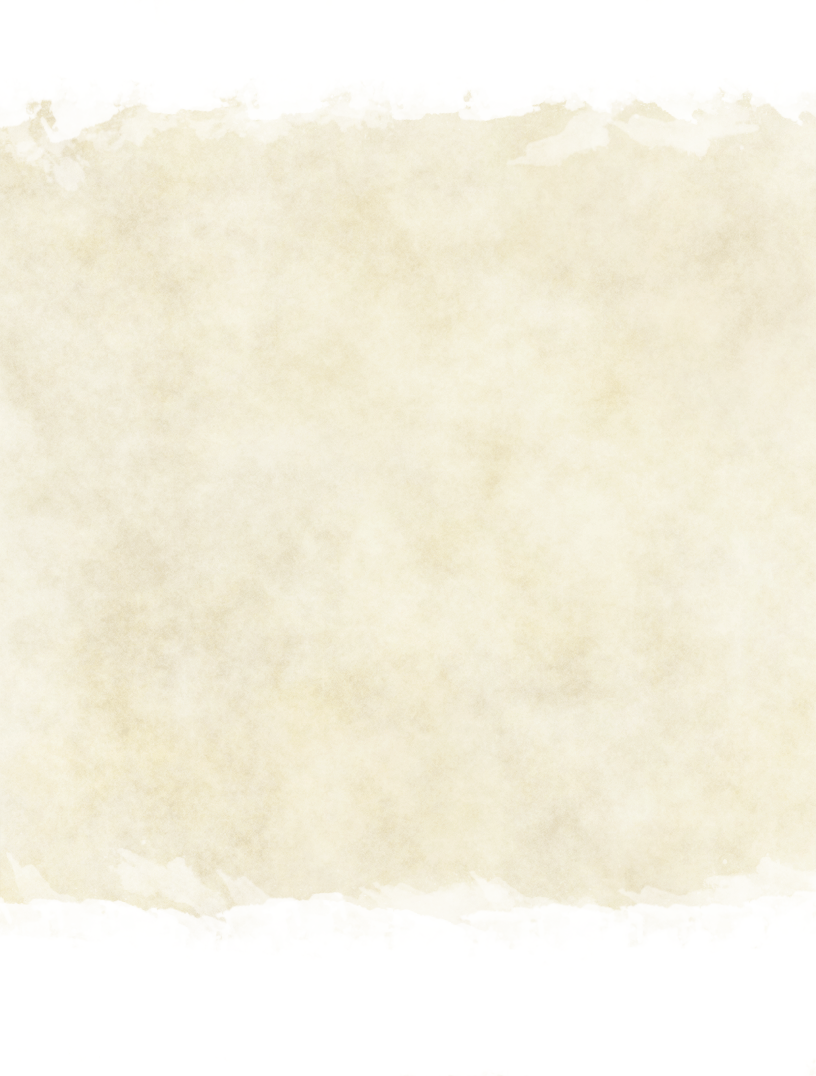
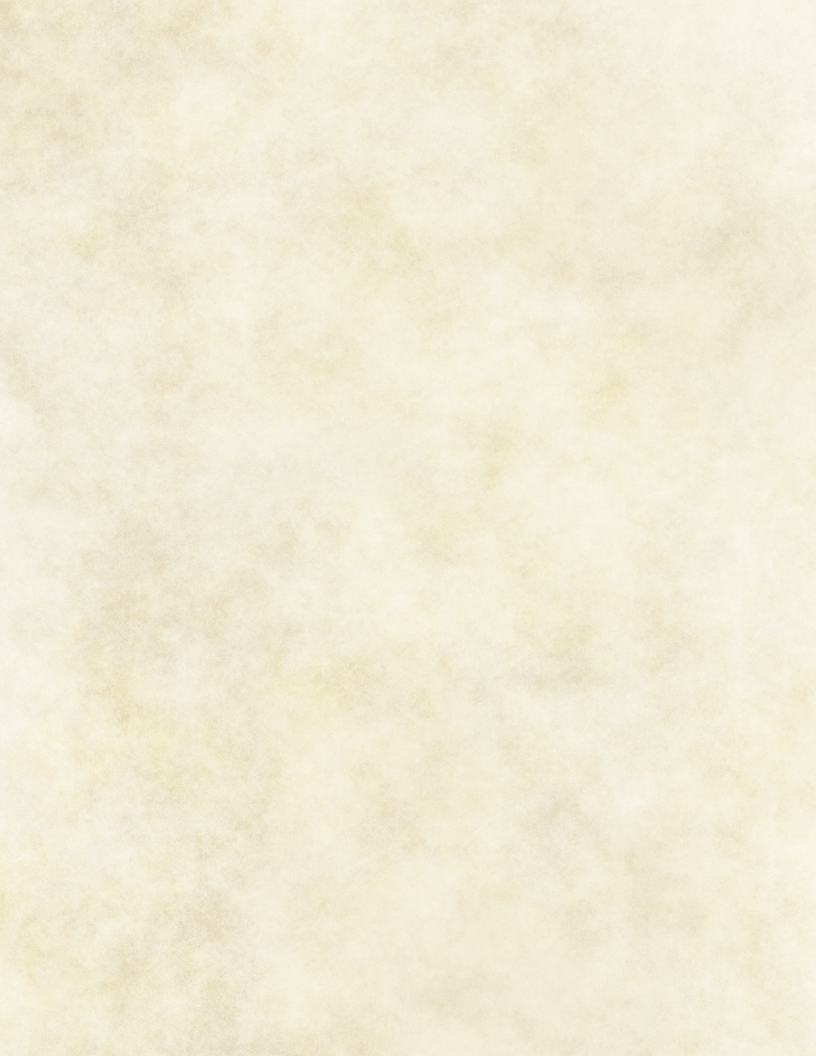
nearly done

Changed region(s): [[0.0, 0.8125, 1.0, 1.0], [0.0, 0.0, 1.0, 0.1562]]

diff --git a/index.js b/index.js
@@ -1,7 +1,5 @@
 document.addEventListener("DOMContentLoaded",doAll)
 
-let showsClass = false
-
 function doAll(){  //initializes once the DOM is loaded
     getClasses()
 }
@@ -22,15 +20,18 @@ function makeButtons(classes){
         const button = document.createElement("button")
         button.innerText = data.index
         button.className = "character-button"
-        button.addEventListener("click", (e) => fillClassPage(e.target.innerText))
+        button.addEventListener("mouseover", (e) => e.target.style.backgroundColor = "gold")
+        button.addEventListener("mouseout", (e) => e.target.style.backgroundColor = "rgb(194, 175, 135)")
+        button.addEventListener("click", (e) => fillClassPage(e.target.innerText.toLowerCase()))
         document.getElementById("buttons").appendChild(button)
     })})
 }
 
 
 function fillClassPage(elem){ //elem is the innertext of the button that is clicked which is the class
-    if (showsClass === true){ //had to make a variable that equals false by default so that when this tries to remove something it doesn't error
-        document.querySelectorAll("h3").forEach(elem => elem.remove())
+    let parent = document.getElementById("level-list")
+    while (parent.firstChild) {
+        parent.removeChild(parent.firstChild);
     }
     fetch(`https://www.dnd5eapi.co/api/classes/${elem}/levels`) //gets the full class levels
     .then(resp => resp.json())
@@ -43,22 +44,19 @@ function fillClassPage(elem){ //elem is the innertext of the button that is clic
             fetch(`https://www.dnd5eapi.co${feature.url}`)//each feature has their own api addresses
             .then(resp => resp.json())
             .then(function(data){ //creates each ability name and information
-            p1 = document.createElement("p")
+            p1 = document.createElement("h5")
             p1.innerText = data.name
             p1.className = "ability-name"
             p2 = document.createElement("p") 
             p2.innerText = data.desc
             p2.className = "ability-details"
             p1.appendChild(p2)
+            console.log(p1.innerText)
             document.getElementById(`${data.level}`).after(p1)
             })
         })
         document.getElementById("level-list").appendChild(h3)
     }))
-    setTimeout(()=>{
-        document.querySelectorAll("h3").forEach(level => {if(level.children.length === 0){level.remove()}})//removes levels that are not used due to not having any children
-    },1000)
-    showsClass = true //changes the variable so that the function will now remove the class iinformation that's already there
     document.getElementById("class-image").src = `p1_project_photos/${elem}image.png`//simply changes the main image to the class specific image
 }
 

diff --git a/style.css b/style.css
@@ -1,9 +1,19 @@
+ h1 {
+    text-align: center;
+    border: thick ridge black;
+    border-width: .4em;
+ }
+ 
  img#class-image {
     display: block;
     margin-left: auto;
     margin-right: auto;
     width: 500px;
     height: auto;
+    border: ridge tan;
+    border-width: 10px;
+    background-image: url(p1_project_photos/backgroundimage.png);
+    /* background-color: rgb(0, 0, 0); */
 }
 
 .character-button {
@@ -17,8 +27,10 @@
 }
 
 button {
-    border: medium ridge red;
-    border-radius: 5px;
+    border-radius: 10px;
+    text-transform: capitalize;
+    background-color: rgb(194, 175, 135);
+    margin: 2px;
 }
 
 #buttons {
@@ -27,17 +39,23 @@ button {
     text-align: center;
     border: medium ridge red;
     border-radius: 10px;
+    border-width: .2em;
+    background-color: black;
 }
 
 body {
     padding: 25px;
-    background-image: url("p1_project_photos/backgroundimage.png");
+    background-image: url("p1_project_photos/ice2_background_base.png");
     background-color: rgb(240, 235, 214);
-    color: black;
     font-size: 25px;
 }
 
 .dark-mode {
     background-image: url("p1_project_photos/ice2_background_base.png");
     color: white;
+}
+
+.ability-details {
+    font-weight: normal;
+    font-size: 20px;
 }

diff --git a/README.md b/README.md
@@ -1,2 +1,3 @@
 This is a one page web application that fetches information from an API and uses it to fill in the HTML page.
 The purpose of this application is simply to display information on player character classes that are in the D&D TTRPG game.
+The background is from https://watercolors.giantsoup.com/phb/ and the class images are directly from the official dndbeyond website at https://www.dndbeyond.com/
